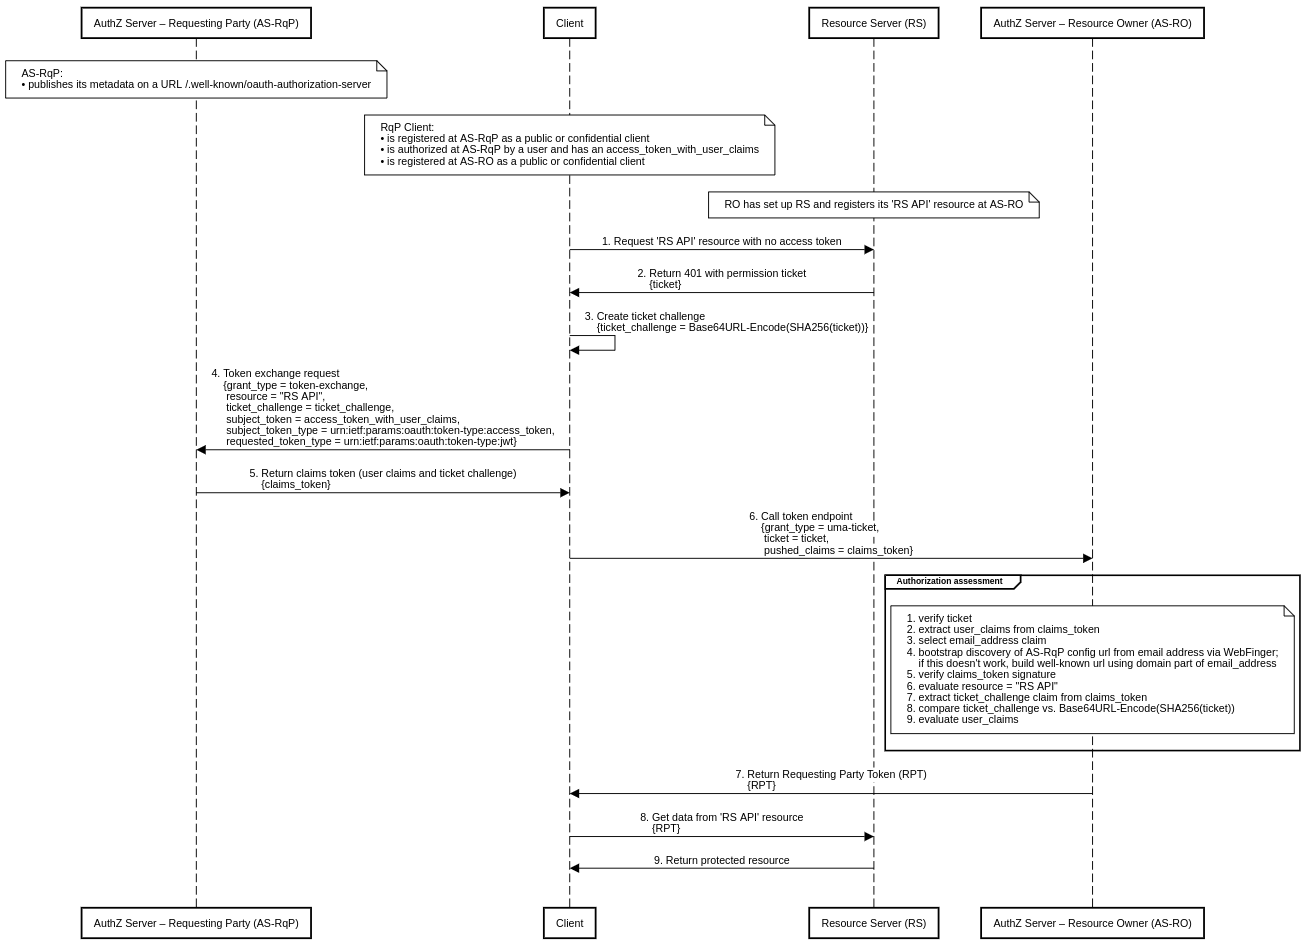
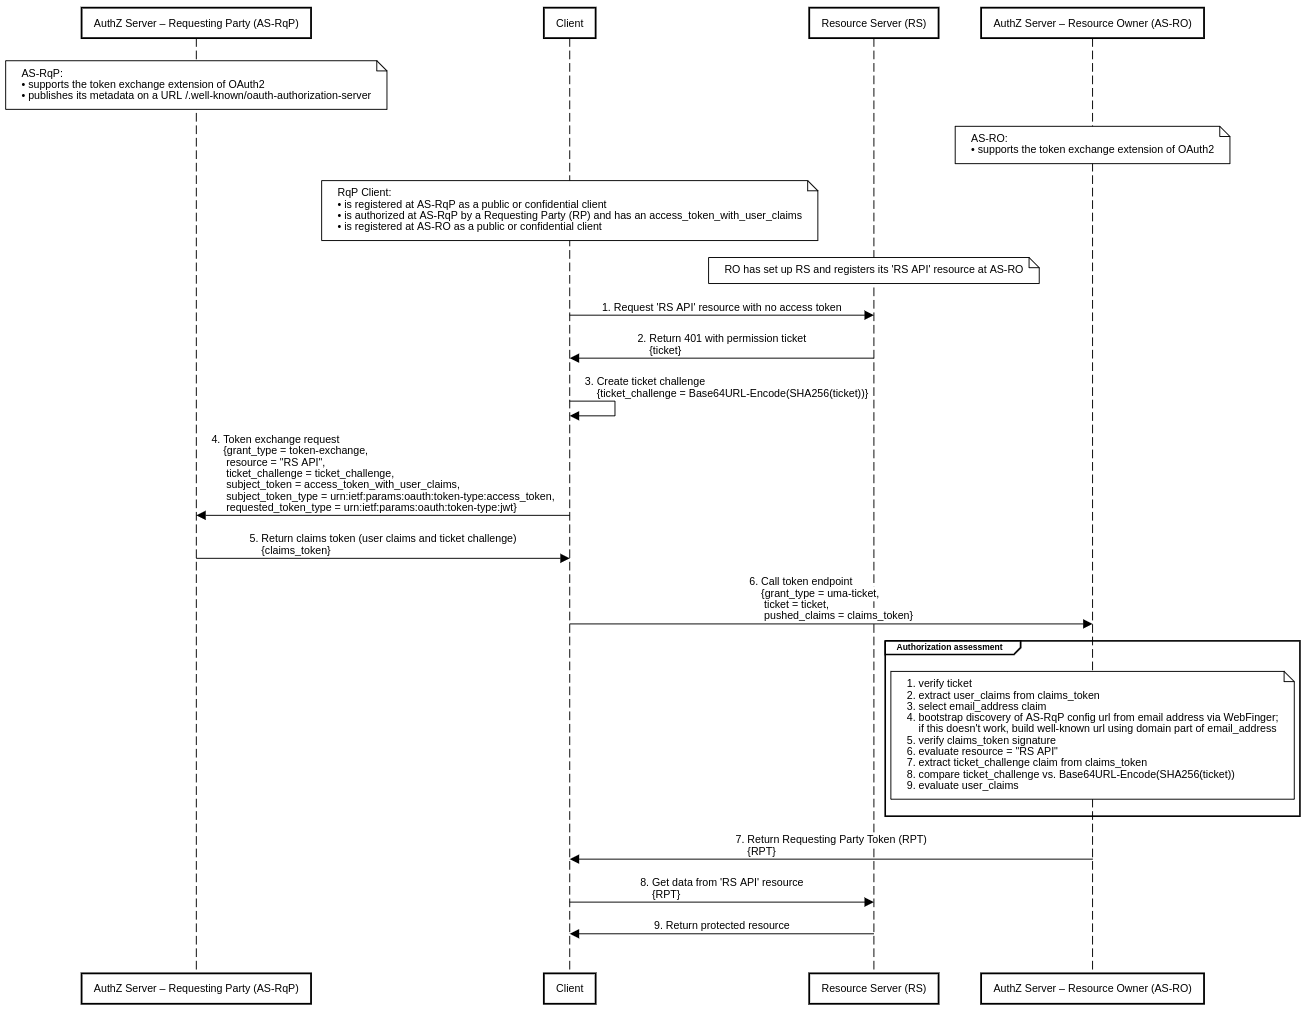
prerequisites

diff --git a/README.md b/README.md
@@ -10,7 +10,9 @@ A prototype implementation of the [Authorization-Enhanced Mail System (AEMS)][1]
 
 To transfer data from sender to recipient, AEMS uses [Correlated Authorization][2] technology, which has been designed with the "cross-domain access control" in mind.
 
-Correlated Authorization is a Double Cross-Domain Authorization mechanism that works without shared central OIDC provider as well as without federated OIDC providers. This concept uses the permission ticket as a correlation handler between two authorization processes.
+Correlated Authorization is a Double Cross-Domain Authorization mechanism that works without shared central OIDC provider as well as without federated OIDC providers.
+
+Both the requesting party and the resource owner use mutually independent authorization servers. This concept uses the permission ticket as a correlation handler between two authorization processes.
 
 ## Sequence diagrams
 
@@ -20,8 +22,11 @@ Correlated Authorization is a Double Cross-Domain Authorization mechanism that w
 
 Prerequisites:
 
-* ...
-* ... 
+* Both authorization servers support the token exchange extension of OAuth2 ([RFC 8693][3]).
+* AS-RqP publishes its metadata on a URL /.well-known/oauth-authorization-server.
+* RqP Client is registered at AS-RqP as a public or confidential client and is authorized at AS-RqP by RP and has an access token with user claims.
+* RqP Client is registered at AS-RO as a public or confidential client.
+* RO has set up RS and registers its 'RS API' resource at AS-RO according to the [UMA Federated Authorization][4] specification.
 
 Steps:
 
@@ -32,15 +37,30 @@ Steps:
 
 ![Sequence Diagram - generic](./images/correlated-authz-generic.png)
 
+Prerequisites:
+
+* Both authorization servers support the token exchange extension of OAuth2 ([RFC 8693][3]).
+* AS-RqP publishes its metadata on a URL /.well-known/oauth-authorization-server.
+* RqP Client is registered at AS-RqP as a public or confidential client and is authorized at AS-RqP by RP and has an access token with user claims.
+* RqP Client is registered at AS-RO as a public or confidential client.
+* RO registers RS at AS-RO to protect its RS API.
+
+Steps:
+
+1. ...
+2. ...
+
 ## Demo and Documentation
 
-WIP, early stage [umabox.org][4].
+WIP, early stage [umabox.org][6].
 
 ## Acknowledgment
 
-Credits go to [WG - User Managed Access][3].
+Credits go to [WG - User Managed Access][5].
 
 [1]: https://github.com/uma-email/proposal/blob/master/authorization-enhanced-mail-system-draft-02.pdf
 [2]: https://github.com/uma-email/proposal/blob/master/correlated-authorization-draft-00.pdf
-[3]: https://kantarainitiative.org/confluence/display/uma/Home
-[4]: https://www.umabox.org
+[3]: https://www.rfc-editor.org/rfc/rfc8693.html
+[4]: https://docs.kantarainitiative.org/uma/wg/rec-oauth-uma-federated-authz-2.0.html
+[5]: https://kantarainitiative.org/confluence/display/uma/Home
+[6]: https://www.umabox.org
